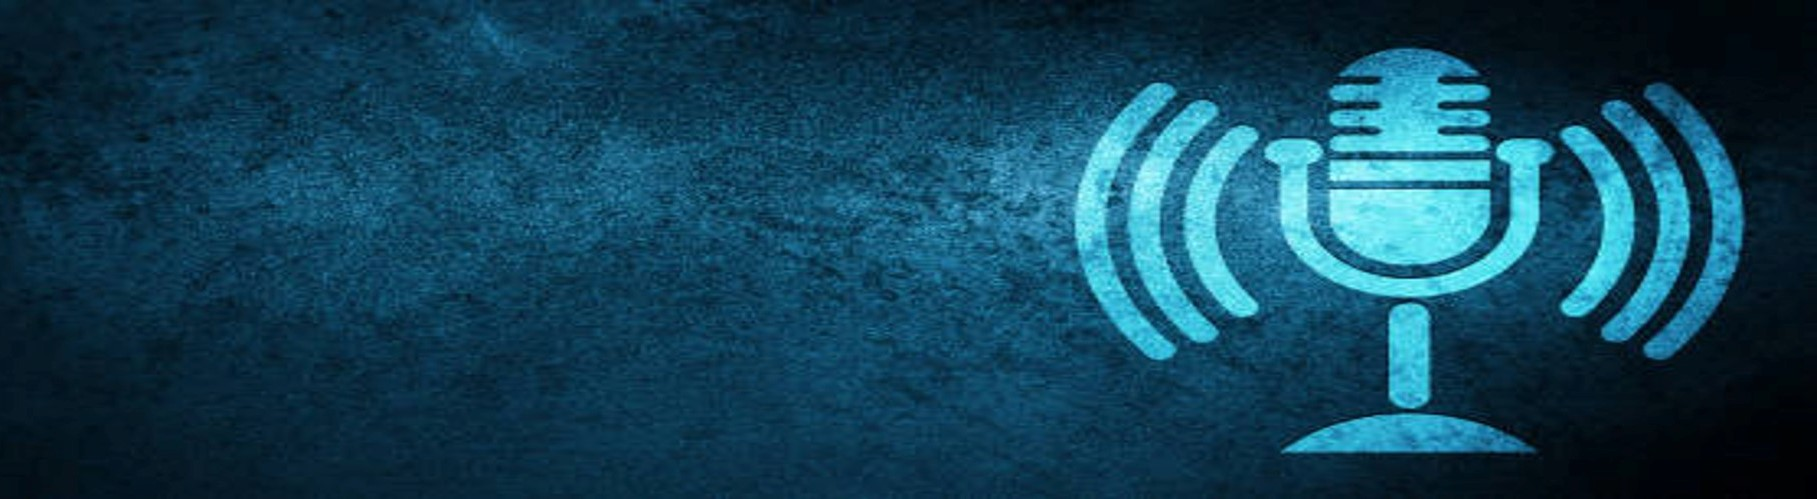
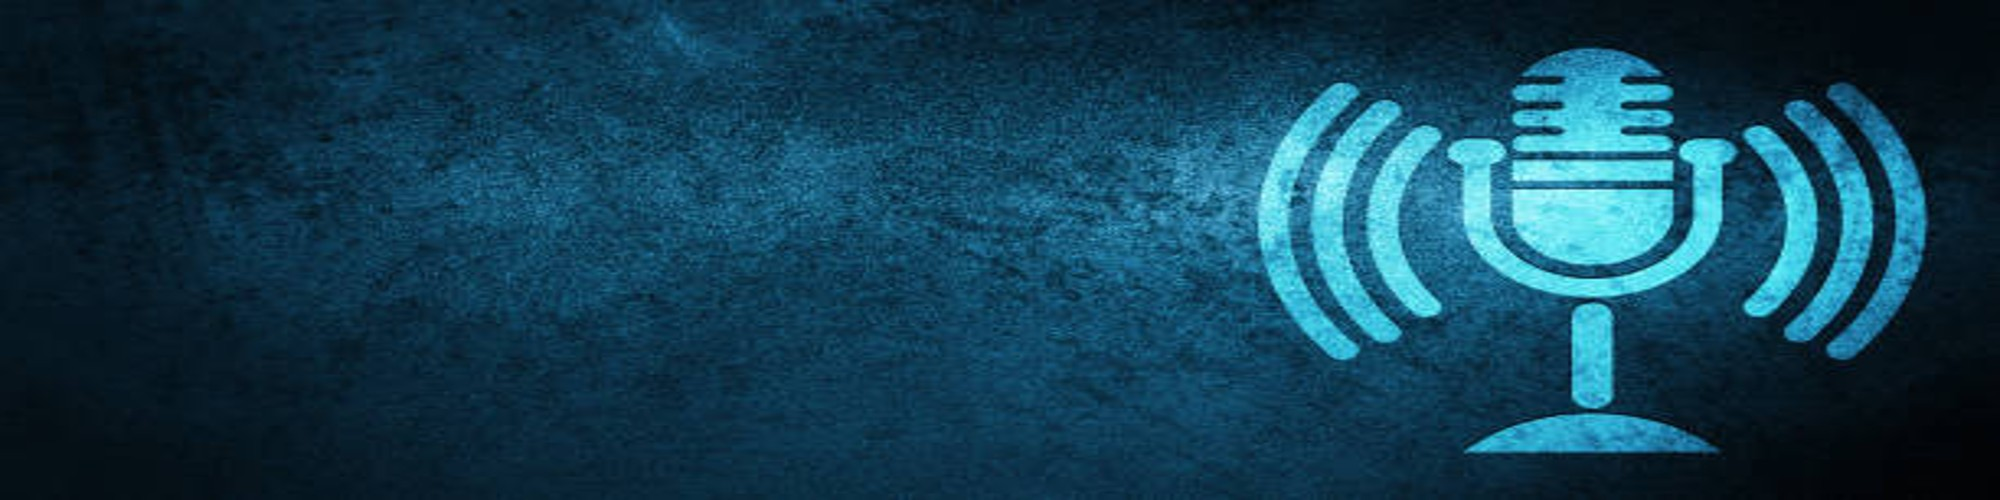
Added background cover

diff --git a/_assets/css/banner.scss b/_assets/css/banner.scss
@@ -160,25 +160,15 @@
 }
 
 
-
-@media only screen and (min-width: 1200px){
-.abstract-background2{
+.abstract-background2 {
     background-image: url(../assets/images/background/podcast.jpg);
     background-color: #172636;
     background-repeat: no-repeat;
     background-position: top center;
+    background-size: cover;
 }
 
-}
 
-@media only screen and (max-width: 1200px){
-.abstract-background2{
-    background-color: #172636;
-    background-repeat: no-repeat;
-    background-position: top center;
-}
-
-}
 
 .abstract-background3{
   background-image: url(../assets/images/background/hero-5-former.png);
